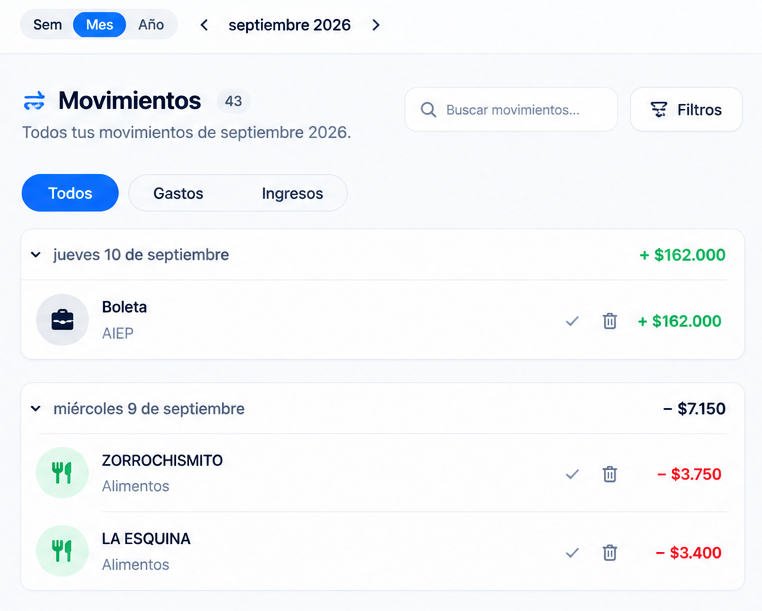
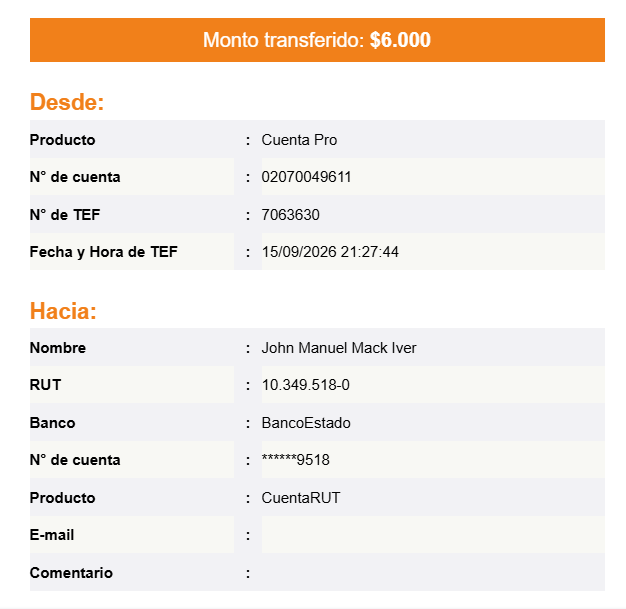
feat: actualizar estilos y lógica en componentes de la interfaz; agregar soporte para imágenes desde el portapapeles; actualizar versión a 3.31

diff --git a/src/ui/movimientoForm.js b/src/ui/movimientoForm.js
@@ -52,6 +52,30 @@ function isoAInputLocal(iso) {
   )}`;
 }
 
+// Lee una imagen del portapapeles del sistema, si hay una y el navegador
+// deja. Devuelve un File listo para el pipeline de OCR, o null si no hay
+// imagen, no hay permiso, o la API no está disponible (Safari y varios
+// WebViews de Android no soportan navigator.clipboard.read() con
+// imágenes) — en cualquiera de esos casos, quien llama cae al selector de
+// archivo normal, así que acá no hace falta distinguir el motivo del fallo.
+async function leerImagenPortapapeles() {
+  if (!navigator.clipboard || !navigator.clipboard.read) return null;
+  try {
+    const items = await navigator.clipboard.read();
+    for (const item of items) {
+      const tipoImagen = item.types.find((t) => t.startsWith("image/"));
+      if (!tipoImagen) continue;
+      const blob = await item.getType(tipoImagen);
+      const extension = tipoImagen.split("/")[1] || "png";
+      return new File([blob], `comprobante-portapapeles.${extension}`, { type: blob.type });
+    }
+  } catch {
+    // Sin permiso, portapapeles vacío/sin imagen, o gesto de usuario ya
+    // consumido — todos caen al selector de archivo normal.
+  }
+  return null;
+}
+
 function formatoFechaHoraLegible(iso) {
   return new Date(iso).toLocaleString("es-CL", {
     day: "2-digit",
@@ -224,7 +248,21 @@ export function abrirMovimientoForm({
     hidden: "true",
   });
   const btnCargarComprobante = el("button", { type: "button", class: "boton--secundario boton--secundario-icono" });
-  btnCargarComprobante.addEventListener("click", () => inputArchivo.click());
+  // Antes de abrir el selector de archivos, se intenta leer una imagen del
+  // portapapeles (útil cuando la persona ya copió una captura de pantalla o
+  // una imagen desde otra app). Best-effort: si el navegador no soporta la
+  // API, no hay permiso, o el portapapeles no tiene imagen, se cae al
+  // selector de archivo normal sin mostrar ningún error — Safari y varios
+  // WebViews de Android no soportan navigator.clipboard.read() para
+  // imágenes, así que esto nunca puede ser el único camino.
+  btnCargarComprobante.addEventListener("click", async () => {
+    const archivoPortapapeles = await leerImagenPortapapeles();
+    if (archivoPortapapeles && confirm("Detectamos una imagen copiada. ¿Usarla como comprobante?")) {
+      await cargarComprobante(archivoPortapapeles);
+      return;
+    }
+    inputArchivo.click();
+  });
   const btnQuitarComprobante = el(
     "button",
     { type: "button", class: "boton--icono", "aria-label": "Quitar comprobante", hidden: "true" },
@@ -318,9 +356,11 @@ export function abrirMovimientoForm({
     actualizarBotones();
   }
 
-  inputArchivo.addEventListener("change", async () => {
-    const file = inputArchivo.files[0];
-    if (!file) return;
+  // Corre el pipeline de OCR sobre `file` y carga los resultados en el
+  // formulario. Compartida por el selector de archivo (input type=file) y
+  // por la imagen leída del portapapeles — mismo procesamiento para ambos
+  // orígenes, no hay una segunda ruta de extracción.
+  async function cargarComprobante(file) {
     archivoComprobante = file;
     imagenEliminada = false;
     await pintarComprobante();
@@ -421,6 +461,11 @@ export function abrirMovimientoForm({
     } finally {
       quitarOverlay();
     }
+  }
+
+  inputArchivo.addEventListener("change", () => {
+    const file = inputArchivo.files[0];
+    if (file) cargarComprobante(file);
   });
 
   const comprobante = el("div", { class: "comprobante-campo comprobante-campo--secundario" }, [

diff --git a/src/ui/resumenView.js b/src/ui/resumenView.js
@@ -263,12 +263,24 @@ function indicadorVs(clase, nombre, valor, desc, claseValor) {
 // gráficos de la app): dos polylines (ingresos/gastos) sobre una grilla
 // sutil, con zonas invisibles por punto para el tooltip al pasar el mouse.
 function graficoVsLineas(puntos) {
-  const ANCHO = 600;
-  const ALTO = 160;
-  const M_IZQ = 46;
-  const M_DER = 10;
-  const M_TOP = 14;
-  const M_INF = 26;
+  // En escritorio el viewBox es ancho y bajo (ANCHO grande): el gráfico se
+  // ve compacto porque todo (fuente, grosor de línea, radio de puntos) se
+  // escala según el ancho real del contenedor / ANCHO. En un celular esa
+  // misma relación deja el ancho real MUY chico (~300-360px), así que ese
+  // mismo factor de escala achica el texto y las líneas hasta ser
+  // ilegibles — no alcanza con hacer el viewBox "más alto" nada más. Por
+  // eso en móvil se usa un ANCHO de viewBox más chico (sube el factor de
+  // escala = todo se ve más grande en píxeles reales) Y un ALTO
+  // proporcionalmente mucho mayor (más alto que ancho = más espacio
+  // vertical para las variaciones).
+  const movil = window.matchMedia("(max-width: 720px)").matches;
+  const ANCHO = movil ? 300 : 600;
+  const ALTO = movil ? 220 : 160;
+  const M_IZQ = movil ? 40 : 46;
+  const M_DER = movil ? 8 : 10;
+  const M_TOP = movil ? 10 : 14;
+  const M_INF = movil ? 22 : 26;
+  const radioMarca = movil ? 3.2 : 2.6;
   const anchoTrazo = ANCHO - M_IZQ - M_DER;
   const altoTrazo = ALTO - M_TOP - M_INF;
   const n = puntos.length;
@@ -289,7 +301,7 @@ function graficoVsLineas(puntos) {
   });
 
   // Etiquetas del eje X: un subconjunto para no recargar el gráfico.
-  const maxEtiquetas = window.matchMedia("(max-width: 720px)").matches ? 4 : 7;
+  const maxEtiquetas = movil ? 4 : 7;
   const indicesEtiquetas = new Set();
   if (n <= maxEtiquetas) {
     for (let i = 0; i < n; i++) indicesEtiquetas.add(i);
@@ -306,10 +318,20 @@ function graficoVsLineas(puntos) {
 
   const nodosMarcas = puntos.flatMap((p, i) => [
     p.ingresos > 0
-      ? elSvg("circle", { cx: x(i), cy: y(p.ingresos), r: 2.6, class: "vsgrafico-marca vsgrafico-marca--ingreso" })
+      ? elSvg("circle", {
+          cx: x(i),
+          cy: y(p.ingresos),
+          r: radioMarca,
+          class: "vsgrafico-marca vsgrafico-marca--ingreso",
+        })
       : null,
     p.gastos > 0
-      ? elSvg("circle", { cx: x(i), cy: y(p.gastos), r: 2.6, class: "vsgrafico-marca vsgrafico-marca--gasto" })
+      ? elSvg("circle", {
+          cx: x(i),
+          cy: y(p.gastos),
+          r: radioMarca,
+          class: "vsgrafico-marca vsgrafico-marca--gasto",
+        })
       : null,
   ]);
 

diff --git a/app.css b/app.css
@@ -877,6 +877,8 @@
   }
 
   .selector-tipo {
+    display: inline-flex;
+    flex-wrap: nowrap;
     gap: 0;
     border: 1px solid var(--borde);
     border-radius: var(--r-pill);
@@ -889,6 +891,7 @@
     border-radius: var(--r-pill);
     padding: var(--esp-1) var(--esp-3);
     font-size: var(--txt-sm);
+    white-space: nowrap;
   }
 
   /* Sin :not(.activo) acá, ".selector-tipo button" (misma especificidad que
@@ -5063,6 +5066,24 @@ color-mix(in srgb, var(--acento) 16%, transparent);
   }
 
   @media (max-width: 720px) {
+    /* El selector Día/Semana/Mes no compite con el título: pasa a su
+       propia línea, debajo del subtítulo, en vez de angostar el header
+       hasta que ".selector-tipo" no tenga lugar para sus 3 botones. */
+    .resumen-vs .resumen-card-head {
+      flex-direction: column;
+      align-items: flex-start;
+    }
+
+    .vsgrafico-selector {
+      align-self: flex-start;
+    }
+
+    /* Menos aire entre indicadores/gráfico/leyenda: ese espacio se lo
+       queda el gráfico, que en móvil es el elemento central del bloque. */
+    .vsgrafico-cuerpo {
+      gap: var(--esp-2);
+    }
+
     .vsgrafico-resumen {
       gap: var(--esp-3) var(--esp-5);
     }

diff --git a/src/ocr/transferenciaParser.js b/src/ocr/transferenciaParser.js
@@ -5,6 +5,14 @@
 // Diferencia con el original: la fecha se devuelve como Date (hora local
 // del dispositivo), no como epoch millis de Calendar.getInstance().
 
+// Lista MÁS CHICA a propósito que la de documentTypeDetector.js: acá actúa
+// como confirmación estricta, red de seguridad para no parsear como
+// transferencia algo que el detector (con su lista más amplia y más laxa)
+// clasificó mal — ver el test "degrada a compra..." en ocrManager.test.js.
+// "cuenta pro" SÍ se agregó acá (no solo en el detector): es un producto
+// específico de BancoEstado que en la práctica solo aparece en comprobantes
+// de transferencia reales (nunca en boletas de compra), así que no le resta
+// nada a esa red de seguridad.
 const TRANSFER_KEYWORDS = [
   "transferencia", "operacion exitosa", "operación exitosa", "destinatario",
   "detalle cuenta destino", "cuenta origen", "monto transferido",
@@ -13,6 +21,7 @@ const TRANSFER_KEYWORDS = [
   "transferencia realizada", "transferiste",
   "transferencia recibida", "transferencia enviada",
   "pago exitoso", "pago realizado", "pago recibido",
+  "cuenta pro",
 ];
 
 const EXCLUDE_COMERCIO = [

diff --git a/sw.js b/sw.js
@@ -3,7 +3,7 @@
 // a medida que se piden (cache-first, con red de respaldo).
 // Atado a la versión mostrada en el pie de página (src/ui/shell.js) — bumpear
 // juntos en cada cambio para forzar refresco de caché sin limpiar a mano.
-const CACHE_NAME = "finanzas-v3.28";
+const CACHE_NAME = "finanzas-v3.31";
 const PRECACHE = [
   "./",
   "index.html",

diff --git a/src/ui/shell.js b/src/ui/shell.js
@@ -364,7 +364,7 @@ export function montarShell(contenedor, sesion, perfil) {
   ]);
 
   const piePagina = el("footer", { class: "pie-app" }, [
-    el("span", { text: "Finanzas v3.28" }),
+    el("span", { text: "Finanzas v3.31" }),
     el("span", { class: "pie-punto", text: "·" }),
     el("span", { text: "Tus datos están seguros" }),
   ]);
